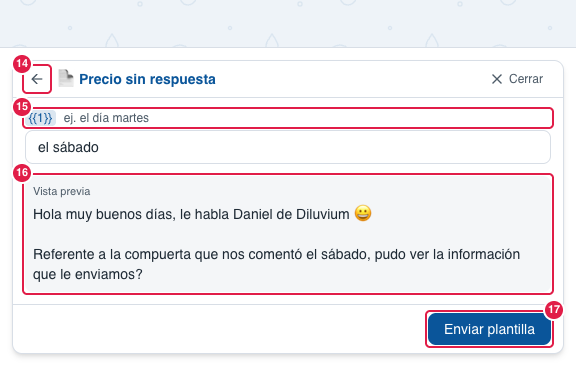
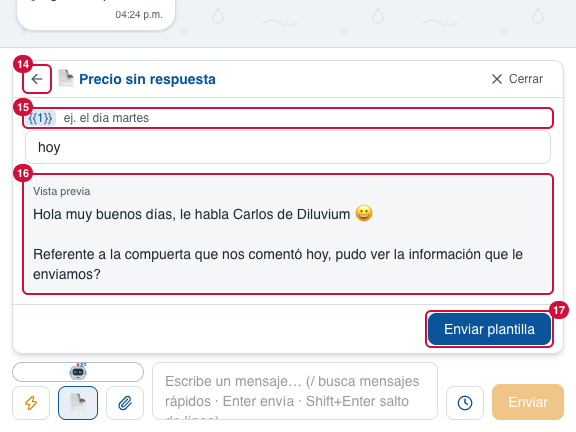
feat(plantillas): «Saludo de Carlos» en vez de «Saludo de Daniel» en el selector 📄 (las daniel_* conservan su nombre en Meta)
Daniel renunció y Carlos es el vendedor nuevo. Meta no deja cambiar el nombre de una plantilla, así que las daniel_*
se quedan con su nombre y su texto se edita (Daniel → Carlos) con el OK del dueño. Mapa (3.2.2 › 60) y capturas
04-composer-plantillas-lista, -cuadricula y 04-composer-plantillas con el texto nuevo.

diff --git a/lib/templates/labels.ts b/lib/templates/labels.ts
@@ -20,7 +20,9 @@ const KNOWN_TITLES: Readonly<Record<string, string>> = {
 export type TemplateSectionKey = "daniel" | "seguimiento" | "otras";
 
 export const TEMPLATE_SECTIONS: ReadonlyArray<{ key: TemplateSectionKey; title: string }> = [
-  { key: "daniel", title: "Saludo de Daniel" },
+  // Las `daniel_*` conservan su nombre en Meta (no se puede cambiar); desde el 26-oct-2026 su texto dice Carlos,
+  // el vendedor nuevo (Daniel renunció).
+  { key: "daniel", title: "Saludo de Carlos" },
   { key: "seguimiento", title: "Seguimiento" },
   { key: "otras", title: "Otras" },
 ];
@@ -38,7 +40,7 @@ export function templateTitle(name: string): string {
 }
 
 /**
- * Texto que se muestra en la lista: en las de «Saludo de Daniel» todas empiezan con el mismo
+ * Texto que se muestra en la lista: en las de «Saludo de Carlos» todas empiezan con el mismo
  * saludo, así que se enseña lo que cambia (lo que va después del primer párrafo).
  */
 export function templateSnippet(name: string, bodyText: string): string {

diff --git a/lib/followups/editar.ts b/lib/followups/editar.ts
@@ -25,7 +25,7 @@ export type FollowUpTemplateOption = {
 
 export type EditResult = { ok: true } | { ok: false; message: string };
 
-// Primero las de seguimiento (las que más encajan), luego el saludo de Daniel y las demás.
+// Primero las de seguimiento (las que más encajan), luego el saludo del vendedor (las `daniel_*`, hoy con Carlos) y las demás.
 const SECTION_ORDER: Record<TemplateSectionKey, number> = { seguimiento: 0, daniel: 1, otras: 2 };
 
 const GONE: EditResult = { ok: false, message: "Ese seguimiento ya no está programado." };

diff --git a/docs/mapa-crm/3.2.2-caja-para-escribir.md b/docs/mapa-crm/3.2.2-caja-para-escribir.md
@@ -102,7 +102,7 @@ y se mandan fotos y videos de la Biblioteca (📎 › Multimedia); cerrada, solo
 | 102 | **Aviso de plantilla sin texto** | En la burbuja de un seguimiento Programado (19-oct-2026): «El Agente IA no dejó texto para este chat: sale la plantilla «…» (su título, p. ej. «Faltan medidas») aunque la ventana de 24 h siga abierta. Para mandar texto, escríbelo en «Editar mensaje».» «Ver mensaje» muestra esa plantilla ya llena y «Editar mensaje» abre el texto (vacío) para escribirlo. | Todos |
 | 58 | **Buscar plantilla** | Filtra por título, nombre técnico y texto, sin importar acentos ni mayúsculas («medidas» encuentra «Faltan medidas»). | Todos |
 | 59 | **Lista / Cuadrícula** | Íconos en el encabezado de Elegir plantilla: lista (título + 1 línea) o tarjetas (título, idioma y 3–4 líneas; 2 columnas si cabe, 1 en panel angosto). Se recuerda en esta computadora. | Todos |
-| 60 | **Secciones de plantillas** | «Saludo de Daniel» (las `daniel_*`), «Seguimiento» (las `seg_*`) y «Otras». Las vacías no salen. | Todos |
+| 60 | **Secciones de plantillas** | «Saludo de Carlos» (las `daniel_*`: Meta no deja cambiarles el nombre, pero desde el 26-oct-2026 su texto dice Carlos, el vendedor nuevo), «Seguimiento» (las `seg_*`) y «Otras». Las vacías no salen. | Todos |
 | 61 | **Hasta cuándo sale el texto** | Línea arriba de Mensaje a enviar (21): «El texto solo puede salir mientras la ventana de 24 h esté abierta: hasta mié 7 oct, 3:21 p.m. (Mazatlán). Para después, usa una plantilla.» En Instagram, lo mismo con su límite de 7 días. | Todos |
 | 62 | **Plantillas a cualquier hora** | Línea arriba de Elegir plantilla en el 🕒: «Las plantillas aprobadas por Meta se pueden mandar a cualquier hora, aunque la ventana esté cerrada.» | Todos |
 | 63 | **Reactivar seguimientos** | En la burbuja de una píldora «Cancelado» (con la etiqueta «Cancelado» junto a la ✕): dice quién los canceló y cuándo; al pulsarlo, el último seguimiento vuelve a programarse si el chat no cambió; si cambió, el Agente IA vuelve a leer el chat en un minuto o dos y arma uno nuevo si el último mensaje es nuestro (mientras tanto la píldora dice «dormido»; 7-oct-2026: antes la píldora podía quedarse sin nada). La píldora hace la **llave inglesa** (48) al instante y espera «cargando» la respuesta. Lo pueden hacer vendedores y admins. | Todos |

diff --git a/docs/seguimientos.md b/docs/seguimientos.md
@@ -124,7 +124,7 @@ repetir). Sin caso propio: "Sin punto claro" (🚪). En el 📄 y el 🕒 de la 
 plantillas con tiempo (`TIME_PHRASE_TEMPLATES`) y de las `daniel_*` (precio, informacion, info_duda, valorar, medidas,
 asesor, objecion; conjunto aparte `PICKER_TIME_PHRASE_TEMPLATES`, solo para el selector: los seguimientos automáticos
 NO mandan las `daniel_*`) ya viene con la frase de tiempo (se puede cambiar); las demás siguen con el primer nombre.
-El selector las agrupa en «Saludo de Daniel», «Seguimiento» y «Otras», con título amigable (`lib/templates/labels.ts`).
+El selector las agrupa en «Saludo de Carlos» (las `daniel_*`; hasta el 26-oct-2026 «Saludo de Daniel»), «Seguimiento» y «Otras», con título amigable (`lib/templates/labels.ts`).
 
 ---
 
